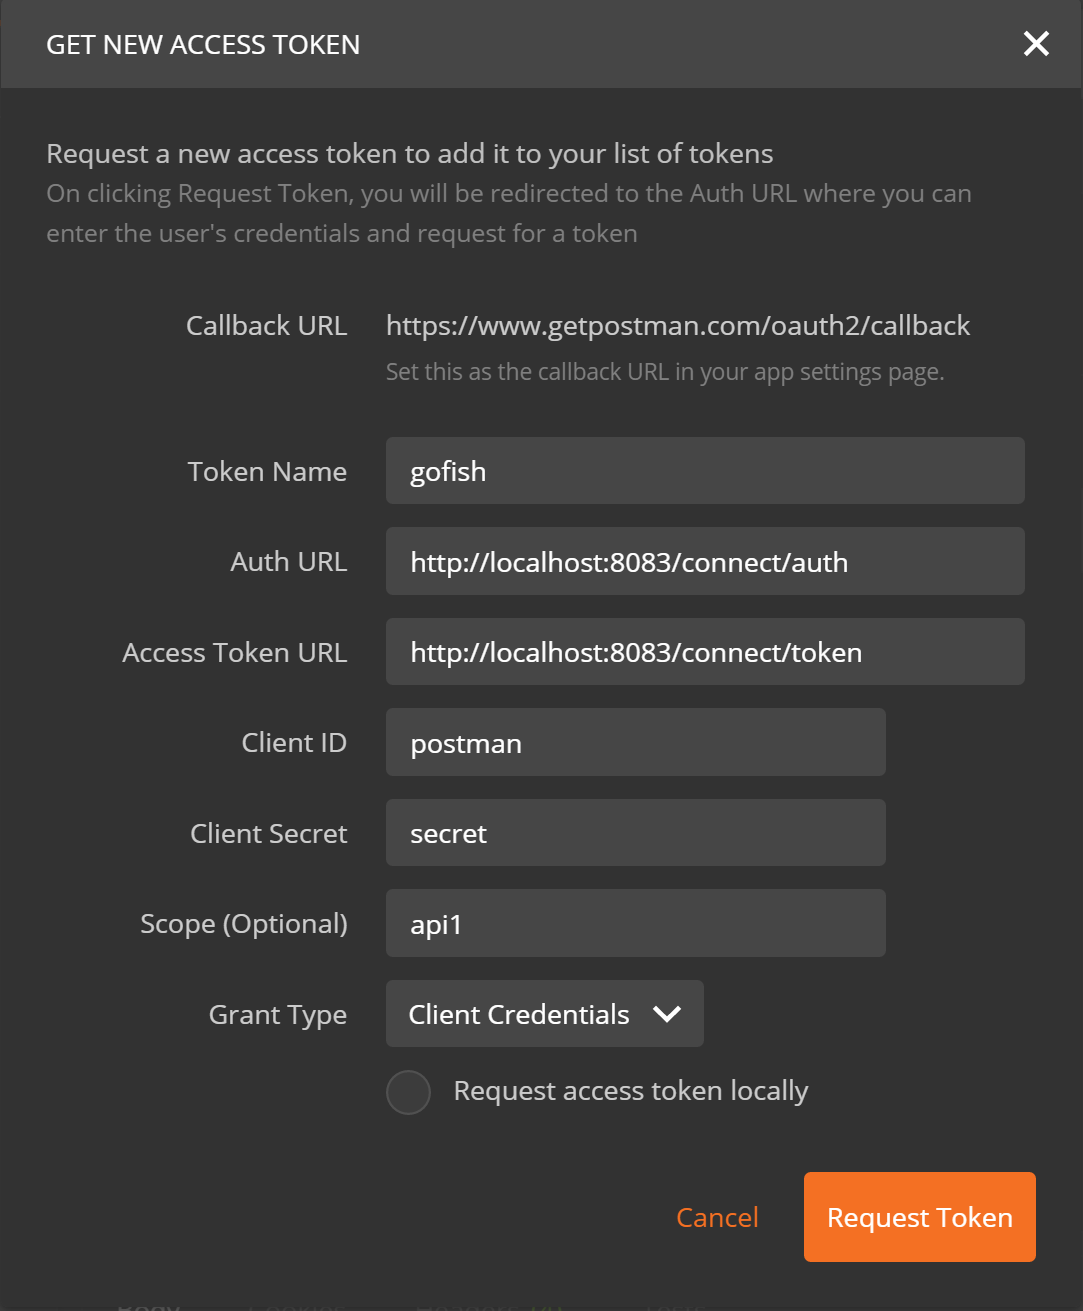
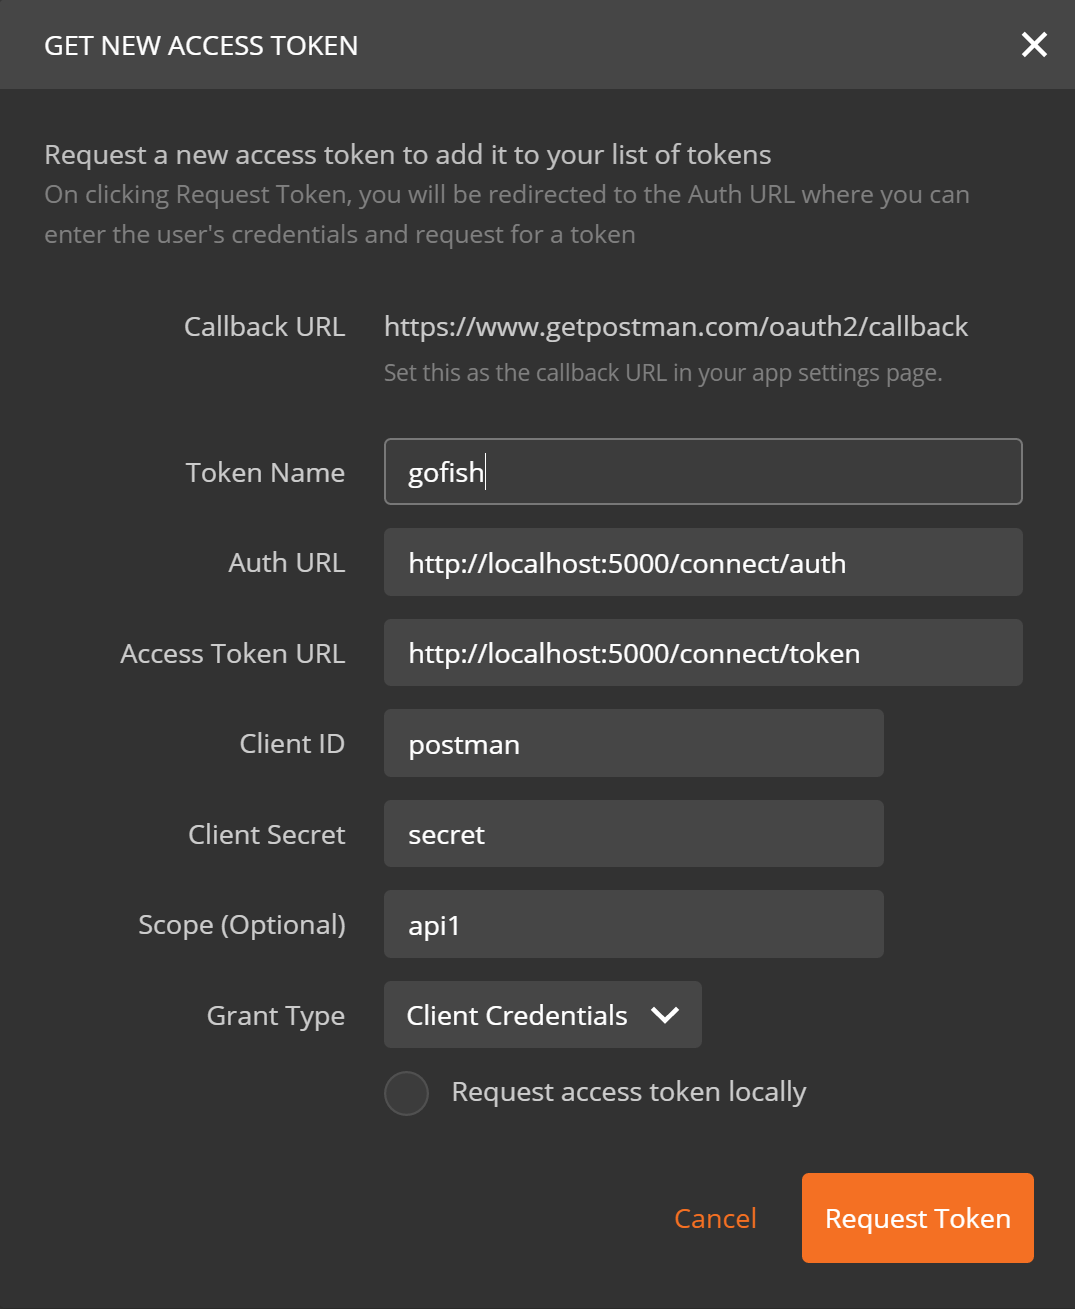
E2E Back! Vagrant memory increase.

diff --git a/GoFish.Advert.Receiver/ApiProxy.cs b/GoFish.Advert.Receiver/ApiProxy.cs
@@ -2,6 +2,7 @@ using System;
 using System.Net.Http;
 using System.Net.Http.Headers;
 using IdentityModel.Client;
+using Newtonsoft.Json;
 
 namespace GoFish.Advert.Receiver
 {
@@ -12,7 +13,7 @@ namespace GoFish.Advert.Receiver
         public ApiProxy()
         {
             client = new HttpClient();
-            client.BaseAddress = new Uri("http://172.17.0.1:5000/api/"); // Advert Api
+            client.BaseAddress = new Uri("http://172.17.0.1:5001/api/"); // Advert Api
             client.DefaultRequestHeaders.Accept.Clear();
             client.DefaultRequestHeaders.Accept.Add(new MediaTypeWithQualityHeaderValue("application/json"));
         }
@@ -20,15 +21,30 @@ namespace GoFish.Advert.Receiver
         public void UpdateAdvert(Guid advertId)
         {
             SetBearerToken();
+            Console.WriteLine("Bearer set");
 
-            var action = string.Format("publishedadverts/{0}", advertId);
-            var result = client.PutAsync(client.BaseAddress + action, new StringContent(string.Empty));
-            Console.WriteLine("Message from {0}: {1}", client.BaseAddress + action, result.Result);
+            Console.WriteLine($"About to publish {advertId}");
+
+            var jsonString = JsonConvert.SerializeObject(advertId);
+
+            HttpResponseMessage result;
+            try
+            {
+                result = client.PutAsync($"{client.BaseAddress}publishedadverts/{advertId}", new StringContent(string.Empty)).Result;
+            }
+            catch (System.Exception ex)
+            {
+                Console.WriteLine("Exception from {0}: {1}",client.BaseAddress, ex.Message);
+                throw;
+            }
+
+            Console.WriteLine("Message from {0}: {1}",client.BaseAddress, result);
         }
 
         private void SetBearerToken()
         {
-            var disco = DiscoveryClient.GetAsync("http://172.17.0.1:5002").Result; // Identity Server API
+            Console.WriteLine("Attempt to get auth token");
+            var disco = DiscoveryClient.GetAsync("http://localhost:5000").Result; // Identity Server API
             var tokenClient = new TokenClient(disco.TokenEndpoint, "rabbitmq", "secret");
             var tokenResponse = tokenClient.RequestClientCredentialsAsync("api1").Result;
             client.SetBearerToken(tokenResponse.AccessToken);

diff --git a/GoFish.Inventory.Receiver/ApiProxy.cs b/GoFish.Inventory.Receiver/ApiProxy.cs
@@ -15,7 +15,7 @@ namespace GoFish.Inventory.Receiver
         public ApiProxy ()
         {
             client = new HttpClient();
-            client.BaseAddress = new Uri("http://172.17.0.1:5001/api/"); // Inventory Api
+            client.BaseAddress = new Uri("http://172.17.0.1:5002/api/"); // Inventory Api
             client.DefaultRequestHeaders.Accept.Clear();
             client.DefaultRequestHeaders.Accept.Add(new MediaTypeWithQualityHeaderValue("application/json"));
         }
@@ -23,19 +23,34 @@ namespace GoFish.Inventory.Receiver
         public void UpdateInventory(StockItemDto item)
         {
             SetBearerToken();
+            Console.WriteLine("Bearer set");
 
             var jsonString = JsonConvert.SerializeObject(item);
-            System.Console.WriteLine("Sending payload: {0}", jsonString);
+            Console.WriteLine("Sending payload: {0}", jsonString);
 
+            HttpResponseMessage result;
             var payload = new StringContent(jsonString, Encoding.UTF8, "application/json");
-            var result = client.PostAsync(client.BaseAddress + "inventory", payload);
+            try
+            {
+                result = client.PostAsync(client.BaseAddress + "inventory", payload).Result;
+            }
+            catch (System.Exception ex)
+            {
+                Console.WriteLine("Exception from {0}: {1}",client.BaseAddress, ex.Message);
+                throw;
+            }
 
-            Console.WriteLine("Message from {0}: {1}",client.BaseAddress, result.Result);
+            Console.WriteLine("Message from {0}: {1}",client.BaseAddress, result);
         }
 
         private void SetBearerToken()
         {
-            var disco = DiscoveryClient.GetAsync("http://172.17.0.1:5002").Result; // Identity Server API
+            Console.WriteLine("Attempting connect to Identity");
+
+            var disco = DiscoveryClient.GetAsync("http://localhost:5000").Result; // Identity Server API
+            if(disco.IsError)
+                Console.WriteLine("Error connecting to Identity");
+
             var tokenClient = new TokenClient(disco.TokenEndpoint, "rabbitmq", "secret");
             var tokenResponse = tokenClient.RequestClientCredentialsAsync("api1").Result;
             client.SetBearerToken(tokenResponse.AccessToken);

diff --git a/GoFish.Inventory/Program.cs b/GoFish.Inventory/Program.cs
@@ -1,12 +1,5 @@
-using System.IO;
-using AutoMapper;
-using GoFish.Shared.Dto;
-using GoFish.Shared.Interface;
-using Microsoft.AspNetCore.Builder;
+using Microsoft.AspNetCore.Builder;
 using Microsoft.AspNetCore.Hosting;
-using Microsoft.Extensions.Configuration;
-using Microsoft.Extensions.DependencyInjection;
-using Microsoft.Extensions.Logging;
 
 namespace GoFish.Inventory
 {
@@ -14,46 +7,14 @@ namespace GoFish.Inventory
     {
         public static void Main()
         {
-            var config = new ConfigurationBuilder()
-                .SetBasePath(Directory.GetCurrentDirectory())
-                .AddJsonFile("hosting.json", optional: true)
-                .Build();
-
             var host = new WebHostBuilder()
                 .UseKestrel()
-                .UseConfiguration(config)
+                .UseUrls("http://0.0.0.0:5002")
+                // .UseUrls("http://localhost:8002")
                 .UseStartup<Startup>()
                 .Build();
 
             host.Run();
-        }
-    }
-
-    public class Startup
-    {
-        public void ConfigureServices(IServiceCollection services)
-        {
-            services.AddMvc();
-            services.AddDbContext<InventoryDbContext>();
-            services.AddTransient<IMessageBroker<StockItem>, InventoryMessageBroker>();
-
-            var config = new MapperConfiguration(cfg =>
-            {
-                cfg.CreateMap<StockItem, StockItemDto>();
-            });
-
-            services.AddSingleton<IMapper>(sp => config.CreateMapper());
-        }
-
-        public void Configure(IApplicationBuilder app, ILoggerFactory loggerFactory)
-        {
-            loggerFactory.AddConsole();
-
-            app.UseMvc();
-
-            app.ApplicationServices
-                .GetService<InventoryDbContext>()
-                .SeedData();
         }
     }
 }

diff --git a/GoFish.Inventory/ProgramStartup.cs b/GoFish.Inventory/ProgramStartup.cs
@@ -1,0 +1,38 @@
+using AutoMapper;
+using GoFish.Shared.Dto;
+using GoFish.Shared.Interface;
+using Microsoft.AspNetCore.Builder;
+using Microsoft.Extensions.DependencyInjection;
+using Microsoft.Extensions.Logging;
+
+namespace GoFish.Inventory
+{
+    public class Startup
+    {
+        public void ConfigureServices(IServiceCollection services)
+        {
+            services.AddMvc();
+            services.AddDbContext<InventoryDbContext>();
+            services.AddTransient<IMessageBroker<StockItem>, InventoryMessageBroker>();
+
+            var config = new MapperConfiguration(cfg =>
+            {
+                cfg.CreateMap<StockItem, StockItemDto>();
+            });
+
+            services.AddSingleton<IMapper>(sp => config.CreateMapper());
+        }
+
+        public void Configure(IApplicationBuilder app, ILoggerFactory loggerFactory)
+        {
+            loggerFactory.AddConsole();
+            loggerFactory.AddDebug();
+
+            app.UseMvc();
+
+            app.ApplicationServices
+                .GetService<InventoryDbContext>()
+                .SeedData();
+        }
+    }
+}

diff --git a/GoFish.Inventory/InventoryDbContext.cs b/GoFish.Inventory/InventoryDbContext.cs
@@ -1,4 +1,3 @@
-using System;
 using System.Linq;
 using Microsoft.EntityFrameworkCore;
 
@@ -45,8 +44,8 @@ namespace GoFish.Inventory
         {
             if (context.StockOwners.Count() == 0)
             {
-                context.StockOwners.Add(new StockOwner(1, "Fred"));
-                context.StockOwners.Add(new StockOwner(2, "Marvin"));
+                context.StockOwners.Add(new StockOwner(1, "Marvin"));
+                context.StockOwners.Add(new StockOwner(2, "Fred"));
                 context.SaveChanges();
             }
         }

diff --git a/GoFish.Advert/AdvertisingDbContext.cs b/GoFish.Advert/AdvertisingDbContext.cs
@@ -39,8 +39,8 @@ namespace GoFish.Advert
         {
             if (context.Advertisers.Count() == 0)
             {
-                context.Advertisers.Add(new Advertiser(1, "Fred"));
-                context.Advertisers.Add(new Advertiser(2, "Marvin"));
+                context.Advertisers.Add(new Advertiser(1, "Beth"));
+                context.Advertisers.Add(new Advertiser(2, "Fred"));
                 context.SaveChanges();
             }
         }

diff --git a/GoFish.UI.MVC/Model/AdvertViewModel.cs b/GoFish.UI.MVC/Model/AdvertViewModel.cs
@@ -25,8 +25,8 @@ namespace GoFish.UI.MVC
             {
                 return new Dictionary<string, string>
                 {
-                   {"1", "Alice"},
-                   {"2", "Bob"}
+                   {"1", "Beth"},
+                   {"2", "Fred"}
                 };
             }
         }
